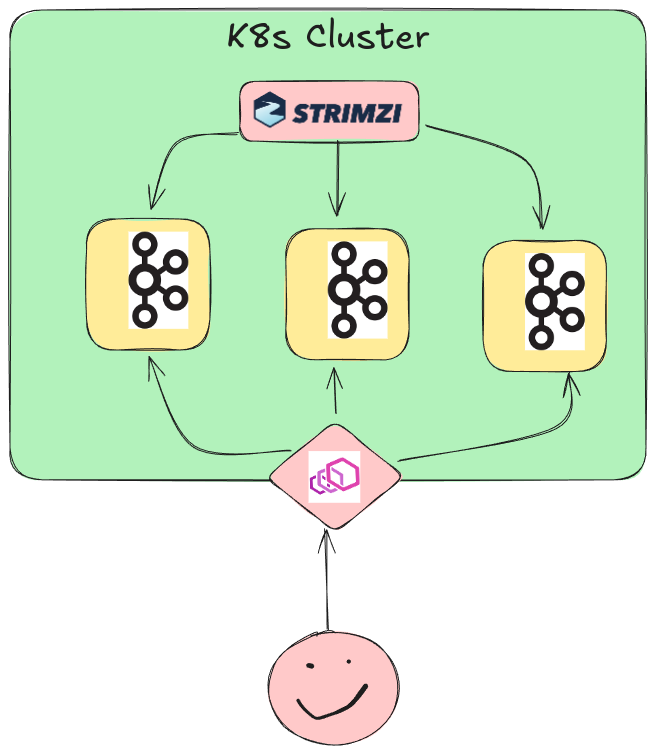
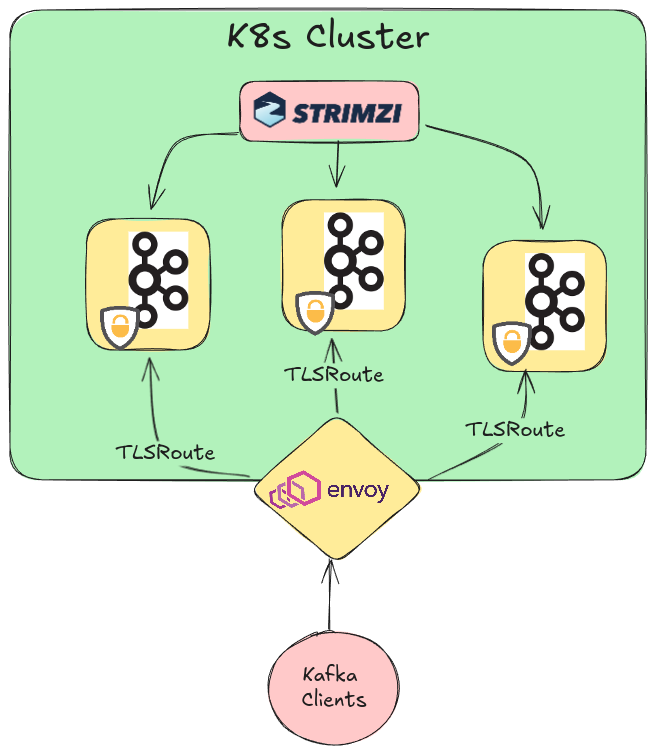
Addresses feedback from PR

diff --git a/_posts/2024-08-07-accessing-kafka-with-gateway-api.md b/_posts/2024-08-07-accessing-kafka-with-gateway-api.md
@@ -35,9 +35,7 @@ The `HTTPRoute` and `GRPCRoute` resources will not work with Kafka because Kafka
 
 _NOTE: The `HTTPRoute` resource has reached GA in the Gateway API; however, the `TLSRoute` is still in beta. Some advise not using it, but it should be fine as long as you check release notes and test before upgrading!_
 
-This post will focus on the `TLSRoute`. In particular, we will use _passthrough TLS_ in which the TLS connections are terminated not at the Gateway Controller but rather at the Kafka brokers. In more detail, it looks like the following:
-
-![Architecture with TLSRoutes](/assets/images/posts/2024-08-07-tls-routes.png)
+This post will focus on the `TLSRoute`. In particular, we will use _passthrough TLS_ in which the TLS connections are terminated not at the Gateway Controller but rather at the Kafka brokers.
 
 ### Putting It Into Practice
 
@@ -60,6 +58,16 @@ KIND is very flexible and has some options to do this. What we will do is:
 * Deploy the Envoy Gateway pods with a `NodePort` service mapping port `30992` on the K8s node to port `9092` on the Envoy Gateway Pod.
 
 Together, the four steps above will make it possible to send traffic to your KIND cluster as if it were running in a public network.
+
+Lastly, once we have traffic successfully routed to the Envoy Proxy (Gateway Controller) pod, we will use a `TLSRoute` resource to ensure that traffic reaches our Kafka brokers. The entire networking setup can be visualized as follows:
+
+![Networking Overview](../assets/images/posts/2024-08-07-kind-cluster-networking-architecture.png)
+
+1. From your local terminal, you make a request to `boostrap.strimzi.gateway.api.test:9092`.
+2. The `/etc/hosts` file re-routes it to `localhost`.
+3. The KIND cluster has a node running as a docker container with your host port `9092` mapped to container port `30992`.
+4. There is a `NodePort` Service routing traffic from port `30992` on the Kubernetes Nodes to the Envoy Gateway pod.
+5. We use `TLSRoute` resources to configure Envoy to send traffic to the Kafka brokers.
 
 #### KIND Cluster Setup
 
@@ -418,6 +426,7 @@ spec:
     type: persistent-claim
 ```
 
+In the github repository, you can create the above resources via the following command:
 ```
 kubectl apply -f kafka-node-pools.yaml
 ```
@@ -532,6 +541,7 @@ spec:
       port: 9092
 ```
 
+To follow along in the github repo, you can run:
 ```
 kubectl apply -f tls-routes.yaml
 ```
@@ -593,9 +603,13 @@ spec:
   replicas: 3
 ```
 
+Once again, in github this can be done via the `user-and-topic.yaml` file:
+
 ```
 kubectl apply -f user-and-topic.yaml
 ```
+
+At this point, you should be able to see a `KafkaTopic` and `KafkaUser` resource created in your Kubernetes cluster:
 
 ```
 -> kubectl get kafkauser
